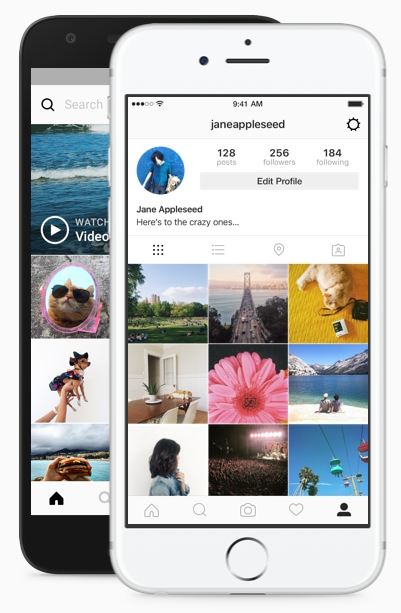
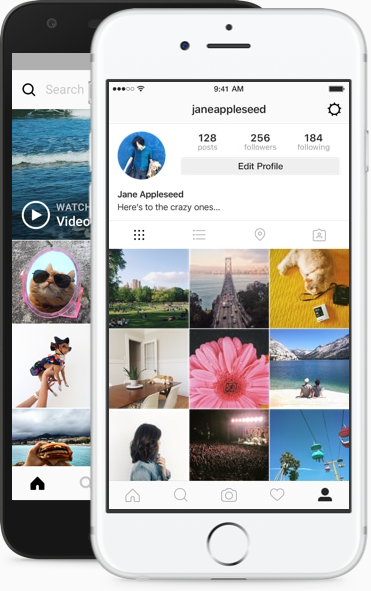
Minor margin edit on login screen

diff --git a/instagram/src/components/Login/Login.js b/instagram/src/components/Login/Login.js
@@ -92,7 +92,7 @@ const PhonesImg = styled.div`
     background-position: center;
     height: 650px;
     width: 380px;
-    margin-right: 15px;
+    margin-right: 30px;
 `;
 
 const LogoImg = styled.div`
